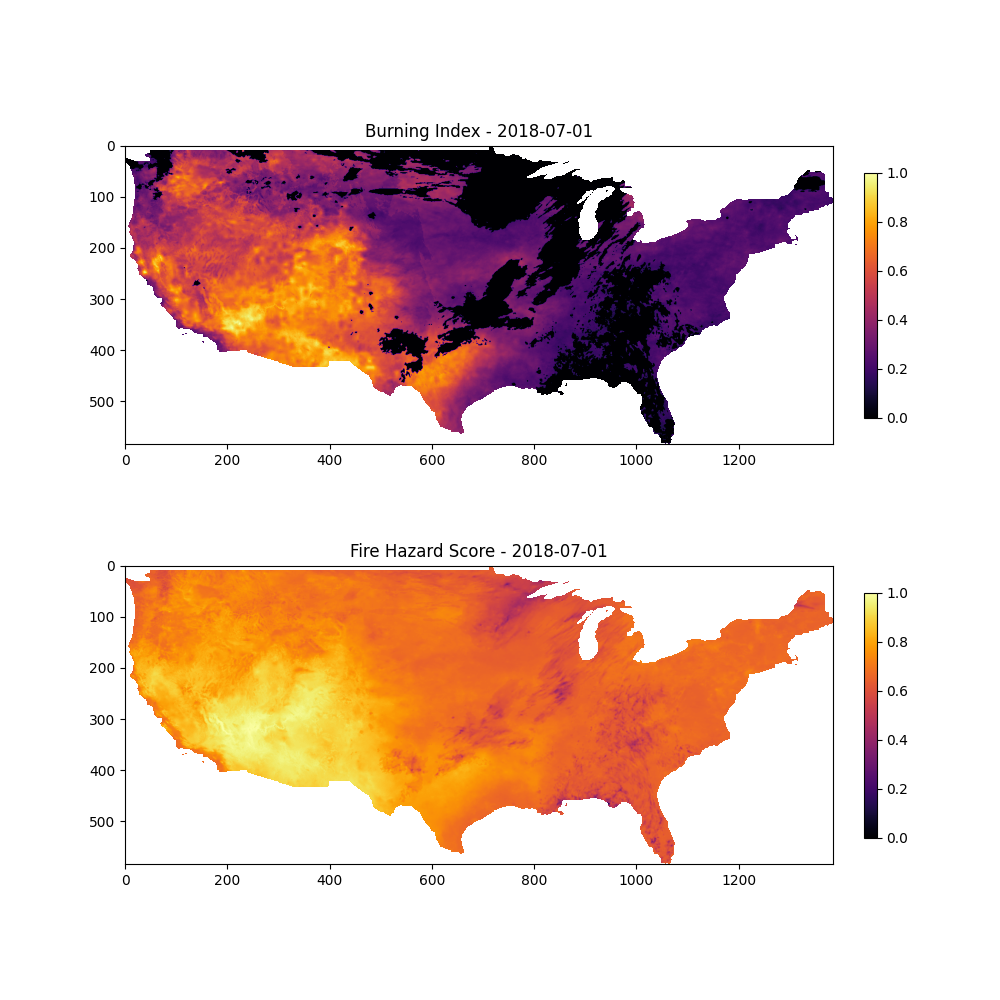
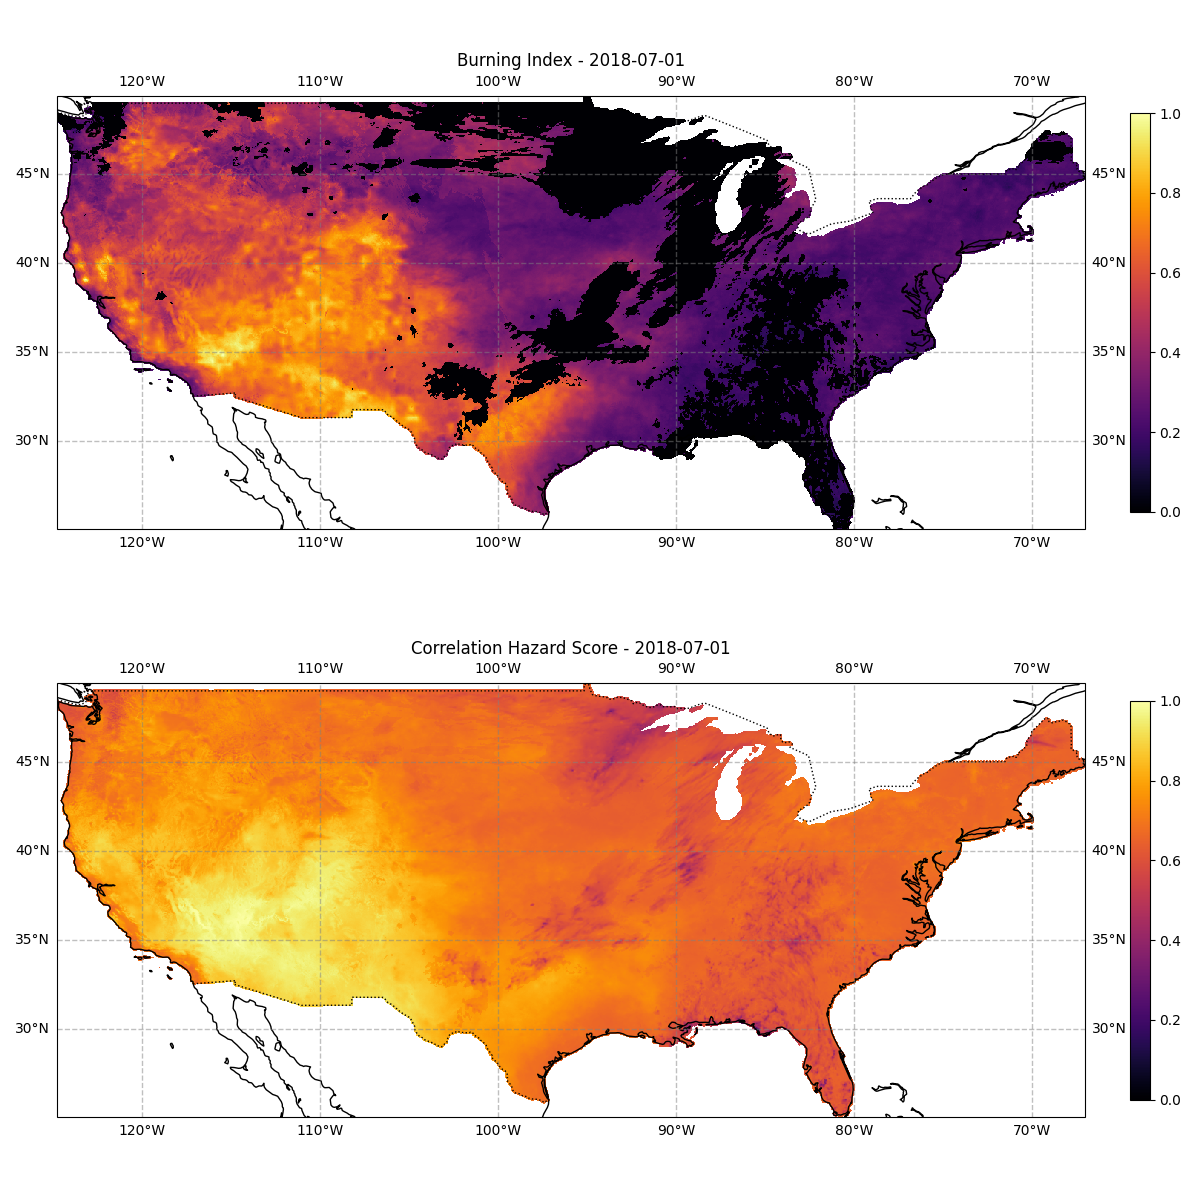
adding global colormapping

diff --git a/SciVis/colorMapping/animation_1.py b/SciVis/colorMapping/animation_1.py
@@ -1,58 +1,96 @@
 import xarray as xr
 import matplotlib.pyplot as plt
 import os
+import numpy as np
+from matplotlib.colors import ListedColormap
+import cartopy.crs as ccrs
+import cartopy.feature as cfeature
+from cartopy.mpl.ticker import LatitudeFormatter, LongitudeFormatter
 
-def load_dataset(folder): # Load the dataset
+def load_dataset(folder):
     dataset = {}
     for i in os.listdir(folder):
         if i.endswith(".nc"):
-            ds=xr.open_dataset(f"{folder}/{i}")
+            ds = xr.open_dataset(f"{folder}/{i}")
             add_calculated_field(ds)
-            ds=normalize_data(ds)
+            ds = normalize_data(ds)
             dataset[i.replace(".nc", "")] = ds
     return dataset
 
+def normalize_data(ds):
+    return (ds - ds.min()) / (ds.max() - ds.min())
+
 def add_calculated_field(ds):
     ds["Correlation Hazard Score"]=(ds["air_temperature"]*0.1-0.73*ds["precipitation_amount"]-0.38*ds["relative_humidity"]+0.34*ds["potential_evapotranspiration"]+0.22*ds["wind_speed"]+0.36*ds["energy_release_component-g"])/(0.1+0.73+0.38+0.34+0.22+0.36)
-    
-def normalize_data(ds): 
-    return (ds-ds.min())/(ds.max()-ds.min())
 
-def plot_variable_over_time(dataset, variable_name, title, cmap, ax, date_index, frame,add_color_bar=False):
-    # Concatenate all time slices from datasets for the variable
+def plot_variable_over_time(dataset, variable_name, title, cmap, ax, date_index, frame, log_scale=False, discrete=False, num_levels=10, add_color_bar=False):
     data_stack = xr.concat([dataset[key][variable_name] for key in dataset], dim='time')
+    data = data_stack.isel(time=frame)
+
+    if log_scale:
+        data = np.log1p(data)
+
+    if discrete:
+        cmap = ListedColormap(plt.get_cmap(cmap)(np.linspace(0, 1, num_levels)))
+    else:
+        cmap = plt.get_cmap(cmap)
+
+    # Create a GeoAxes instead of regular axes
+    # ax = plt.axes(projection=ccrs.PlateCarree())
+    ax.add_feature(cfeature.BORDERS, linestyle=':')
+    ax.add_feature(cfeature.COASTLINE)
+
+    # Extract latitude and longitude
+    lats = data.lat.values
+    lons = data.lon.values
+
+    # Plot the data with actual geo coordinates
+    img = ax.pcolormesh(lons, lats, data.values, transform=ccrs.PlateCarree(), 
+                        cmap=cmap, shading='auto')
     
-    # Plot for the specific frame
-    img = ax.imshow(data_stack.isel(time=frame), cmap=cmap)
+    # Set up longitude and latitude gridlines with formatting
+    ax.gridlines(draw_labels=True, 
+                 linewidth=1, 
+                 color='gray', 
+                 alpha=0.5, 
+                 linestyle='--',
+                 xformatter=LongitudeFormatter(),
+                 yformatter=LatitudeFormatter())
+    
     ax.set_title(f"{title} - {date_index[frame]}")
+    
     if add_color_bar:
         plt.colorbar(img, ax=ax, fraction=0.046, pad=0.04, shrink=0.7)
 
-def save_images(output_dir,dataset, date_index, num_images=10,cmap="viridis"):
-    
-    
+def save_images(output_dir, dataset, date_index, num_images=10, cmap="viridis", log_scale=False, discrete=False, num_levels=10):
     if not os.path.exists(output_dir):
         os.makedirs(output_dir)
 
-    # Plot and save each frame as a separate image
     for frame in range(min(num_images, len(date_index))):
-        fig, axs = plt.subplots(2,1, figsize=(10, 10))
-
-        # Plot each variable in its respective subplot
-        plot_variable_over_time(dataset, "burning_index_g", "Burning Index", cmap, axs[0], date_index, frame,True)
-        plot_variable_over_time(dataset, "Correlation Hazard Score", "Fire Hazard Score", cmap, axs[1], date_index, frame,True)
+        # Create figure with Cartopy projection subplots
+        fig = plt.figure(figsize=(12, 12))
         
+        # Add subplots with PlateCarree projection
+        ax1 = fig.add_subplot(2, 1, 1, projection=ccrs.PlateCarree())
+        ax2 = fig.add_subplot(2, 1, 2, projection=ccrs.PlateCarree())
 
-        # Save the figure
+        plot_variable_over_time(dataset, "burning_index_g", "Burning Index", cmap, ax1, date_index, frame,
+                                log_scale=log_scale, discrete=discrete, num_levels=num_levels, add_color_bar=True)
+        plot_variable_over_time(dataset, "Correlation Hazard Score", "Correlation Hazard Score", cmap, ax2, date_index, frame,
+                                log_scale=log_scale, discrete=discrete, num_levels=num_levels, add_color_bar=True)
+
         file_path = os.path.join(output_dir, f"frame_{frame}.png")
+        plt.tight_layout()
         plt.savefig(file_path)
-        plt.close(fig)  
+        plt.close(fig)
 
 if __name__ == "__main__":
     dataset = load_dataset("../sampled_data")
-
     date_index = list(dataset.keys())
-    output_dirs=["bad_corr_fig_inferno"]
-    for output_dir in output_dirs:
-        save_images(output_dir,dataset, date_index, num_images=10,cmap=output_dir.split("_")[-1])
-    
+
+    output = [
+        {"output_dir": "bad_corr_fig_inferno", "cmap": "inferno", "log_scale": False, "discrete": False},
+        
+    ]
+    for out in output:
+        save_images(out["output_dir"], dataset, date_index, cmap=out["cmap"], log_scale=out["log_scale"], discrete=out["discrete"])

diff --git a/SciVis/colorMapping/animation_2.py b/SciVis/colorMapping/animation_2.py
@@ -2,6 +2,7 @@ import xarray as xr
 import matplotlib.pyplot as plt
 import os
 import numpy as np
+import argparse
 from matplotlib.colors import ListedColormap
 import cartopy.crs as ccrs
 import cartopy.feature as cfeature
@@ -13,12 +14,24 @@ def load_dataset(folder):
         if i.endswith(".nc"):
             ds = xr.open_dataset(f"{folder}/{i}")
             add_calculated_field(ds)
-            ds = normalize_data(ds)
             dataset[i.replace(".nc", "")] = ds
     return dataset
 
-def normalize_data(ds):
+def normalize_data_local(ds):
+    """Apply local normalization to each dataset separately."""
     return (ds - ds.min()) / (ds.max() - ds.min())
+
+def normalize_data_global(dataset, variable_name):
+    """Apply global normalization to all datasets based on the global min and max values of a specific variable."""
+    # Concatenate all data along a new dimension to find the global min and max
+    concatenated_data = xr.concat([dataset[key][variable_name] for key in dataset], dim='time')
+    global_min = concatenated_data.min()
+    global_max = concatenated_data.max()
+
+    # Normalize each dataset using the global min and max
+    for key in dataset:
+        dataset[key][variable_name] = (dataset[key][variable_name] - global_min) / (global_max - global_min)
+    return dataset
 
 def add_calculated_field(ds):
     ds["fire_hazard_score"] = (ds["potential_evapotranspiration"] * 0.34 +
@@ -38,8 +51,6 @@ def plot_variable_over_time(dataset, variable_name, title, cmap, ax, date_index,
     else:
         cmap = plt.get_cmap(cmap)
 
-    # Create a GeoAxes instead of regular axes
-    # ax = plt.axes(projection=ccrs.PlateCarree())
     ax.add_feature(cfeature.BORDERS, linestyle=':')
     ax.add_feature(cfeature.COASTLINE)
 
@@ -70,10 +81,8 @@ def save_images(output_dir, dataset, date_index, num_images=10, cmap="viridis", 
         os.makedirs(output_dir)
 
     for frame in range(min(num_images, len(date_index))):
-        # Create figure with Cartopy projection subplots
         fig = plt.figure(figsize=(12, 12))
         
-        # Add subplots with PlateCarree projection
         ax1 = fig.add_subplot(2, 1, 1, projection=ccrs.PlateCarree())
         ax2 = fig.add_subplot(2, 1, 2, projection=ccrs.PlateCarree())
 
@@ -88,14 +97,30 @@ def save_images(output_dir, dataset, date_index, num_images=10, cmap="viridis", 
         plt.close(fig)
 
 if __name__ == "__main__":
+    parser = argparse.ArgumentParser(description="Specify normalization type: global or local.")
+    parser.add_argument("--normalization", type=str, choices=["global", "local"], default="local",
+                        help="Normalization type: 'global' for global normalization, 'local' for local normalization.")
+    args = parser.parse_args()
+
     dataset = load_dataset("../sampled_data")
     date_index = list(dataset.keys())
 
+    if args.normalization == "global":
+        dataset = normalize_data_global(dataset, "burning_index_g")
+        dataset = normalize_data_global(dataset, "fire_hazard_score")
+    else:
+        # Apply local normalization
+        for key in dataset:
+            dataset[key] = normalize_data_local(dataset[key])
+
     output = [
-        {"output_dir": "animation_continuous_inferno", "cmap": "inferno", "log_scale": False, "discrete": False},
-        {"output_dir": "animation_log_continuous_inferno", "cmap": "inferno", "log_scale": True, "discrete": False},
-        {"output_dir": "animation_discrete_YlOrRd", "cmap": "YlOrRd", "log_scale": False, "discrete": True, "num_levels": 5},
-        {"output_dir": "animation_log_discrete_Y1OrRed", "cmap": "YlOrRd", "log_scale": True, "discrete": True, "num_levels": 8}
+        {"output_dir": "global_animation_continuous_inferno", "cmap": "inferno", "log_scale": False, "discrete": False},
+        {"output_dir": "global_animation_log_continuous_inferno", "cmap": "inferno", "log_scale": True, "discrete": False},
+        {"output_dir": "global_animation_discrete_YlOrRd", "cmap": "YlOrRd", "log_scale": False, "discrete": True, "num_levels": 5},
+        {"output_dir": "global_animation_log_discrete_Y1OrRed", "cmap": "YlOrRd", "log_scale": True, "discrete": True, "num_levels": 8},
+        {"output_dir": "global_animation_continuous_viridis", "cmap": "viridis", "log_scale": False, "discrete": False},
+        {"output_dir": "global_animation_discrete_inferno", "cmap": "inferno", "log_scale": False, "discrete": True, "num_levels": 5},
+        {"output_dir": "global_animation_diverging_coolwarm", "cmap": "coolwarm", "log_scale": False, "discrete": False},  # Diverging colormap example
     ]
 
     for plot in output:

diff --git a/SciVis/colorMapping/createAnimation.py b/SciVis/colorMapping/createAnimation.py
@@ -25,7 +25,7 @@ def create_animation(image_folder, output_file):
     ani.save(f"gifs/{output_file}.gif", writer='pillow', fps=2)
 
 if __name__ == "__main__":
-    image_folders=["animation_continuous_inferno","animation_discrete_YlOrRd","animation_log_continuous_inferno"]
-    output_files=["continuous_inferno","discrete_YlOrRd","log_continuos_inferno"]
+    image_folders=["animation_continuous_inferno","animation_discrete_YlOrRd","animation_log_continuous_inferno","global_animation_continuous_inferno"]
+    output_files=["continuous_inferno","discrete_YlOrRd","log_continuos_inferno","global_inferno"]
     for image_folder,output_file in zip(image_folders,output_files):
         create_animation(image_folder,output_file)
